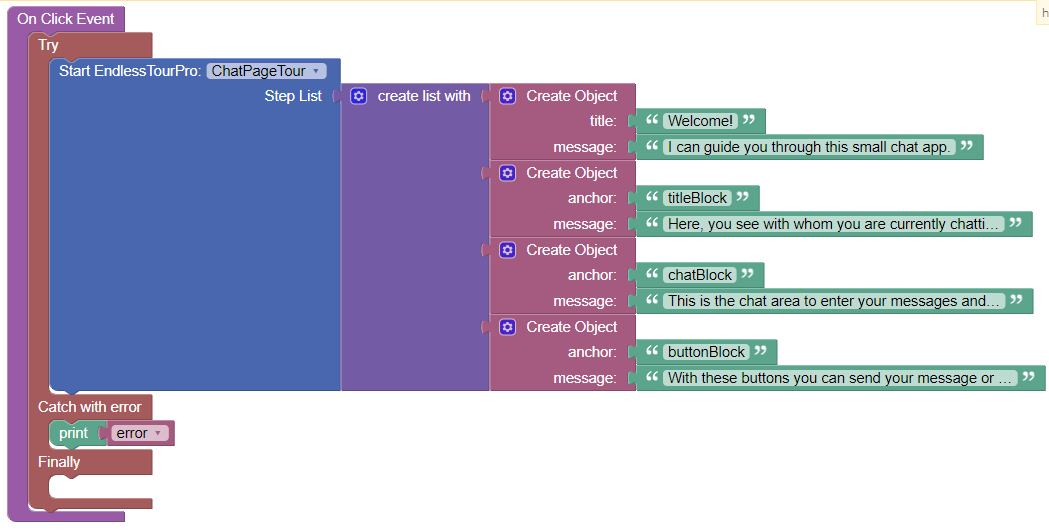
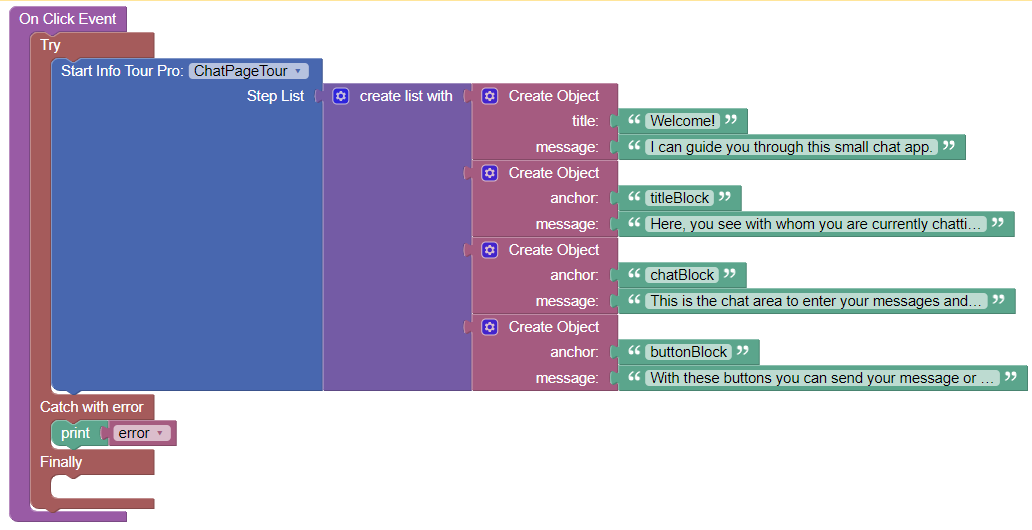
Renaming to Info Tour

Changed region(s): [[0.0, 0.0, 1.0, 0.966], [0.9922, 0.0, 1.0, 0.0604], [0.124, 0.9358, 0.155, 0.966]]

diff --git a/EndlessTour/README.md b/EndlessTour/README.md
@@ -1,6 +1,6 @@
-# Endless Tour
+# Endless Info Tours
 
-This is the documentation for ``Endless Tour`` and ``Endless Tour Pro``.
+This is the documentation for the UI components``Info Tour`` and ``Info Tour Pro`` for the [Backendless Full Stack Visual App Development Platform](https://backendless.com).
 
 ![Icon](./assets/iconTour.jpg) &nbsp; &nbsp; &nbsp; &nbsp;
 ![IconPro](./assets/iconTourPro.jpg)
@@ -75,7 +75,7 @@ If checked, the tour progress is shown by a progress bar.
 **(Pro-version only)** If checked, the tour can be exited by clicking outside of the tooltip.
 
 ### Don't Show Again
-**(Pro-version only)** If checked, each tooltip offers the option to not start the tour the next time, even if the ``Start``-action is called. The ``EndlessTour`` stores a cookie on the user's browser, by which it recognizes that the next ``Start``-action shall be ignored. To re-activate the tour, the cookie must be deleted, or its lifetime must be expired.
+**(Pro-version only)** If checked, each tooltip offers the option to not start the tour the next time, even if the ``Start``-action is called. The ``Info Tour`` stores a cookie on the user's browser, by which it recognizes that the next ``Start``-action shall be ignored. To re-activate the tour, the cookie must be deleted, or its lifetime must be expired.
 
 ### Don't Show Again Label
 **(Pro-version only)** The label used in the tooltip when offering the option "Don't Show Again". This label can be set by a logic handler or by data binding.
